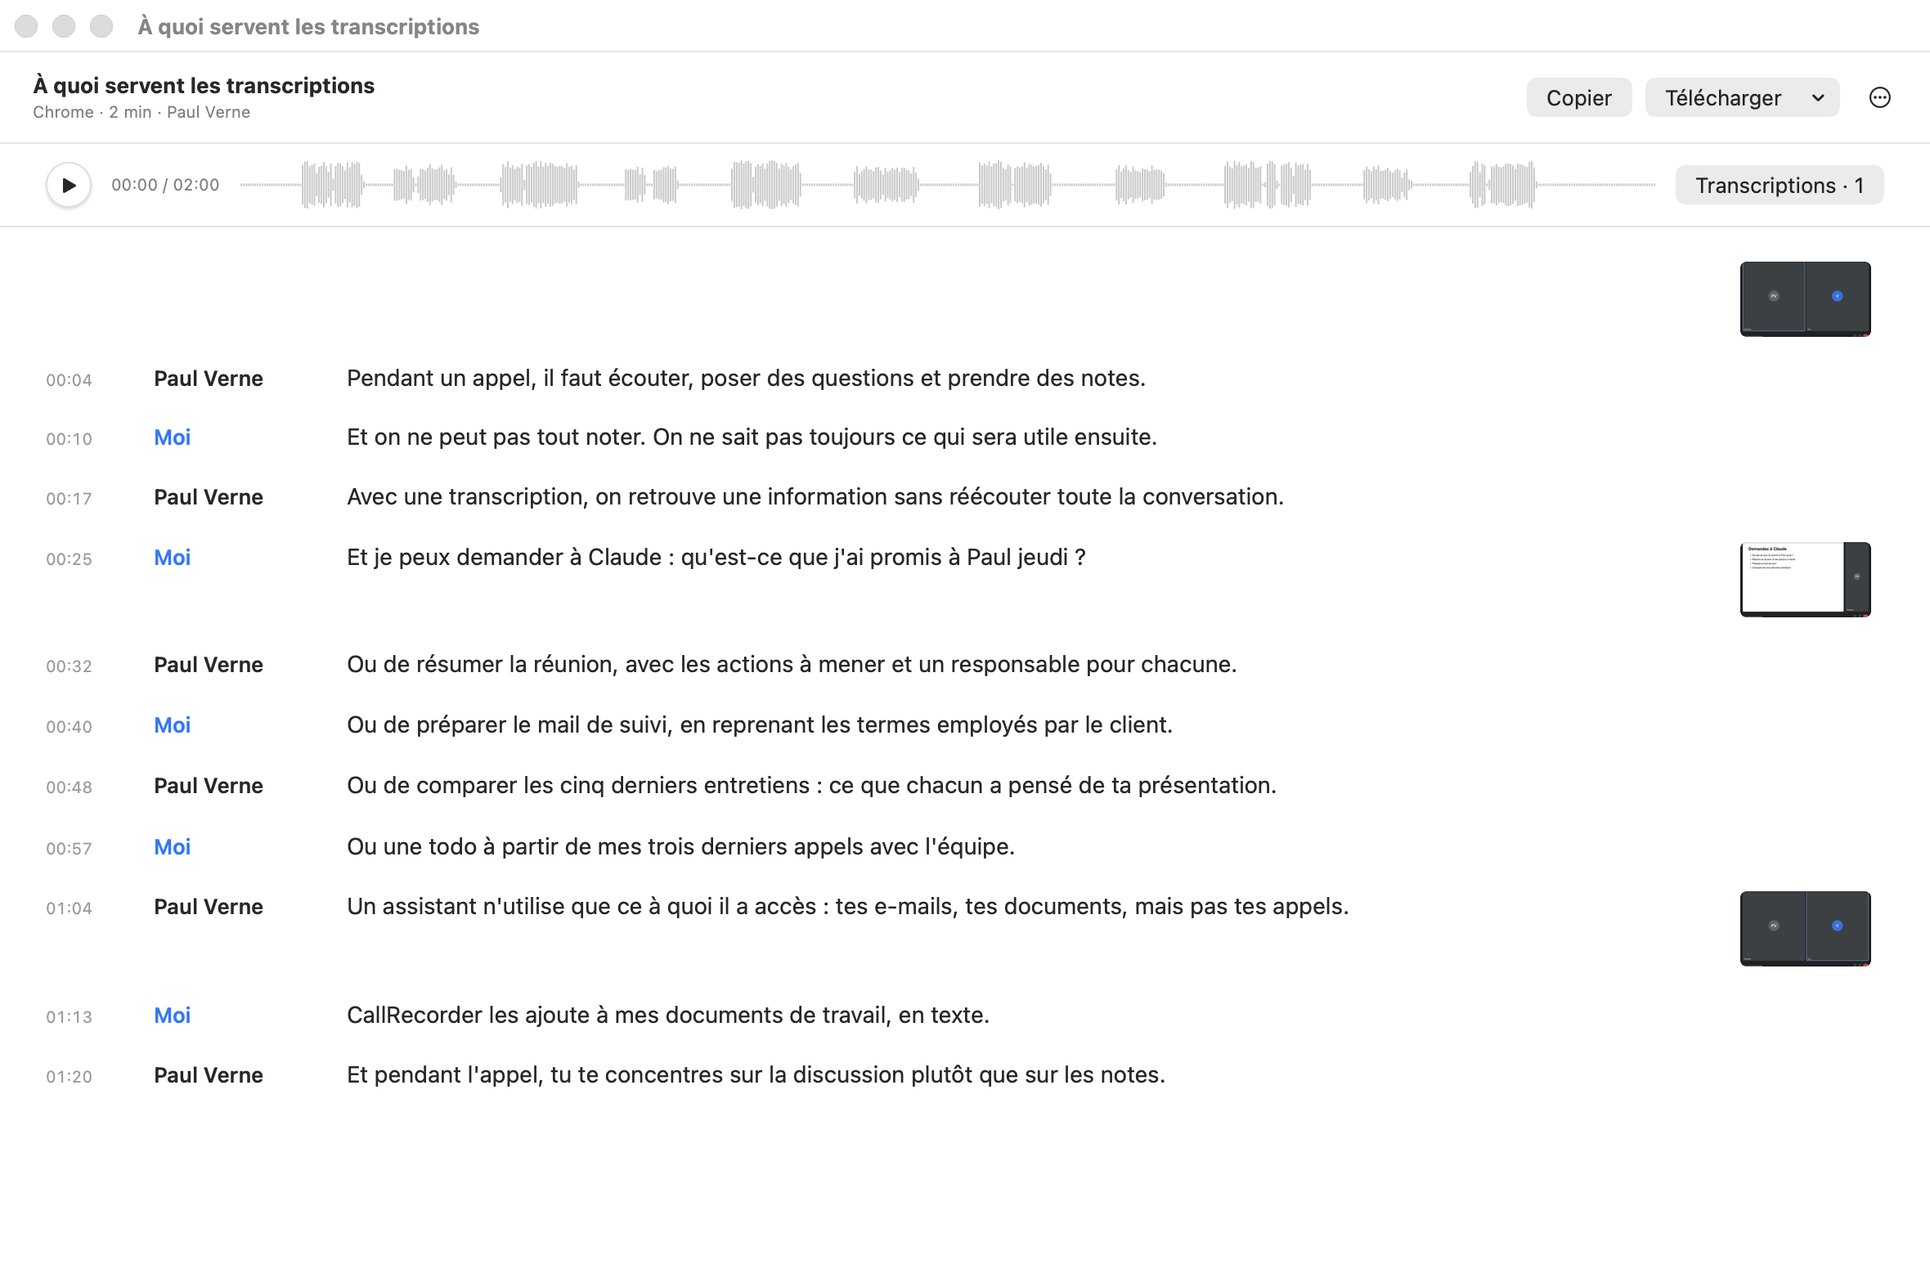
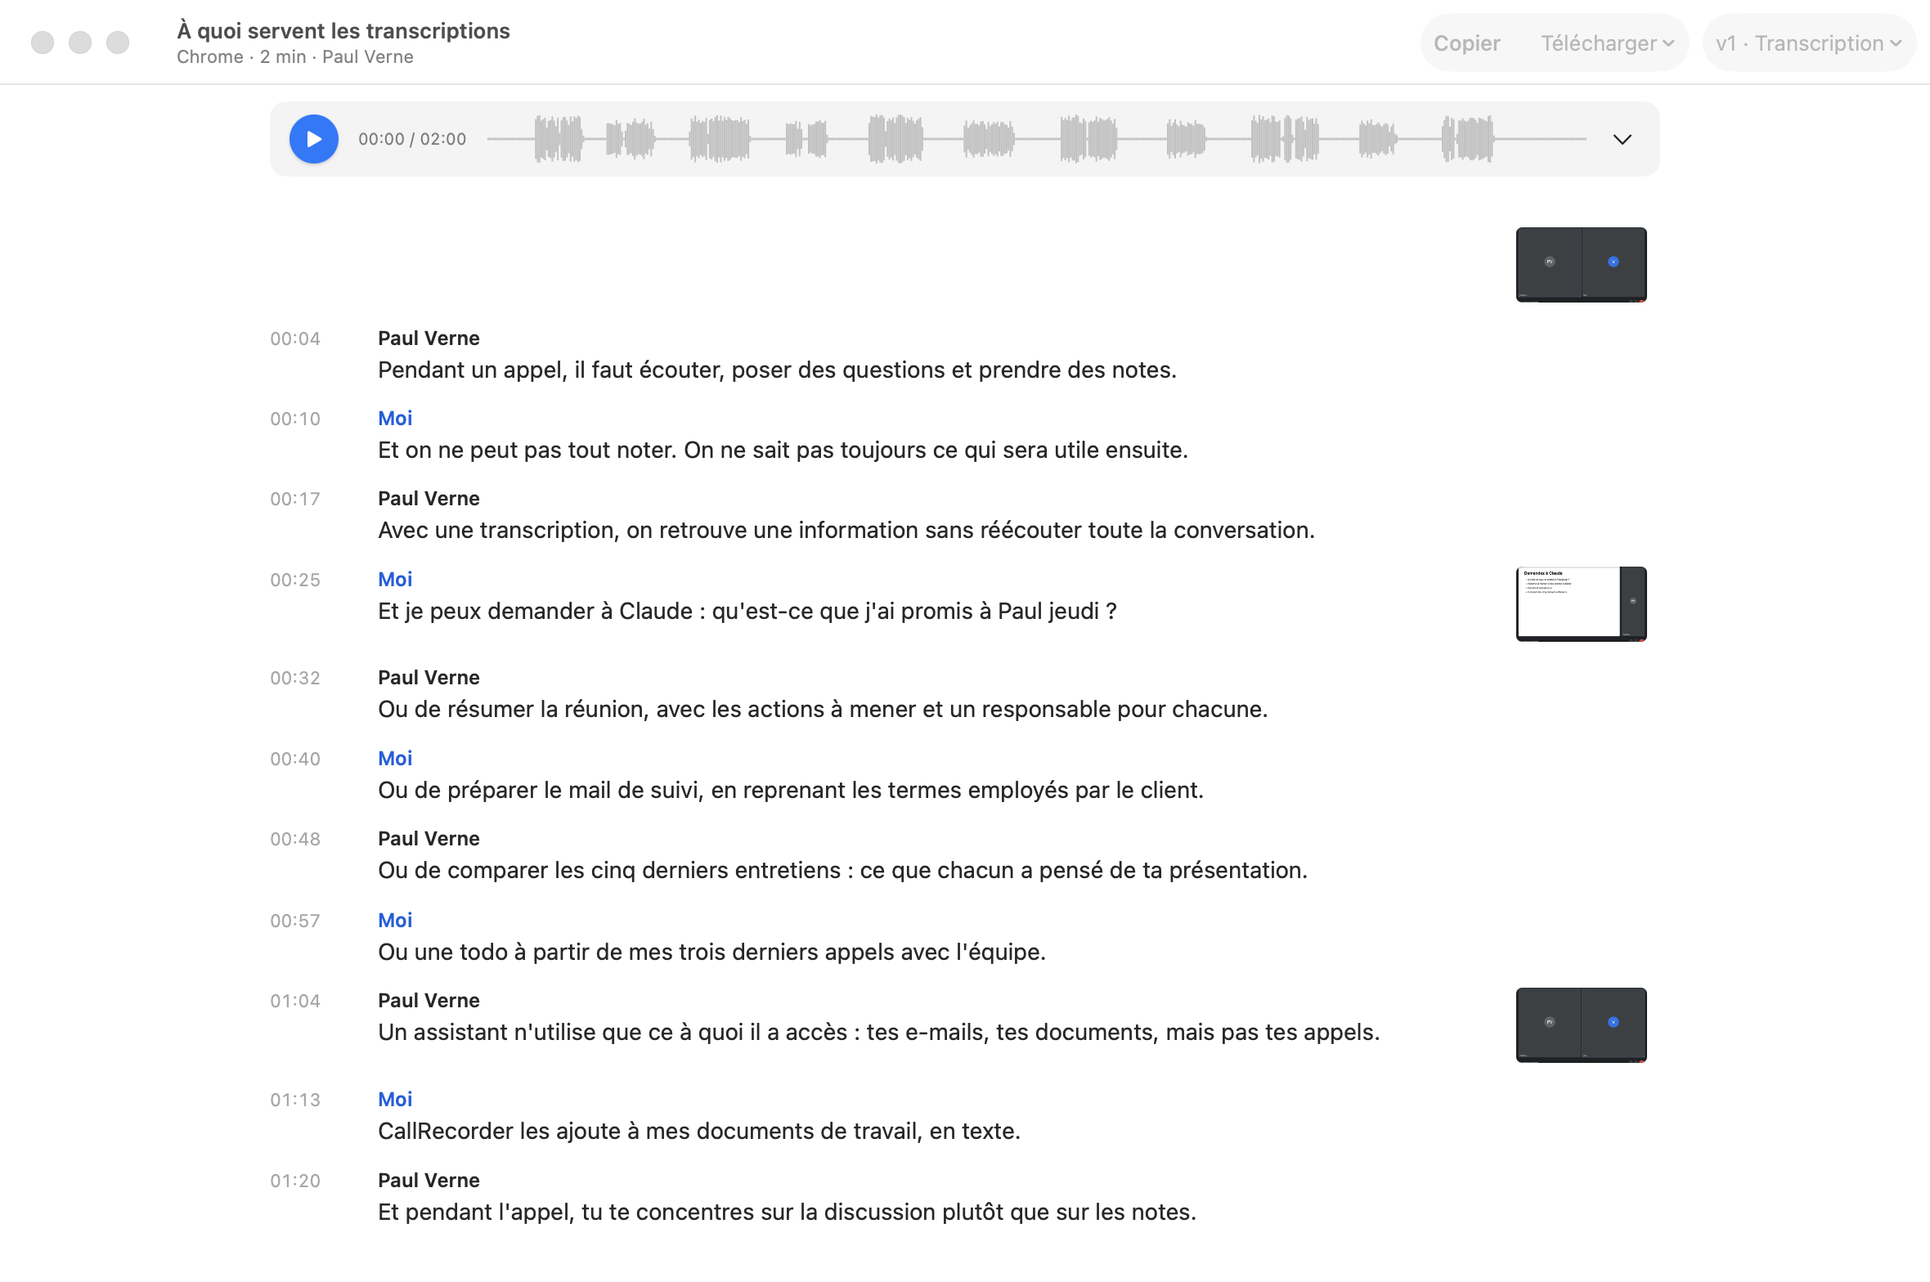
La 0.6.0 : Claude améliore chaque transcription, plus de qualité max ; captures et guides refaits

diff --git a/index.html b/index.html
@@ -81,10 +81,10 @@
   h1, h2, .about .lead, .intro p, .req, .notes { text-wrap: balance; }
   .about .req { font-size: 15px; color: var(--secondary); margin-top: 16px; }
 
-  /* Fenêtre Appels, et la fenêtre d'un appel par-dessus */
-  .stage { position: relative; max-width: 1048px; margin: 96px auto 0; padding-bottom: 150px; }
+  /* La fenêtre Appels : la liste à gauche, l'appel choisi à droite */
+  .stage { position: relative; max-width: 1048px; margin: 96px auto 0; }
   .stage > img {
-    width: 88%; height: auto; display: block;
+    width: 100%; height: auto; display: block;
     border-radius: 11px; border: .5px solid rgba(0,0,0,.25);
     box-shadow: 0 22px 50px -16px rgba(0,0,0,.28);
   }
@@ -215,8 +215,7 @@
   </div>
 
   <div class="stage">
-    <img src="img/appels.png" width="2200" height="1504" alt="La fenêtre Appels de CallRecorder : un calendrier à gauche, et une ligne par appel avec la première capture de l'écran, l'app, l'heure, le titre, les participants et la durée.">
-    <img class="detail" src="img/transcription.png" width="2360" height="1574" alt="La fenêtre d'un appel, « À quoi servent les transcriptions » : la forme d'onde de l'enregistrement, puis les répliques horodatées de Paul et de moi, avec les captures d'écran prises pendant l'appel.">
+    <img src="img/appels.png" width="2560" height="1568" alt="La fenêtre Appels de CallRecorder : à gauche, une ligne par appel avec sa première capture, l'app, l'heure, le titre et la durée ; à droite, l'appel « À quoi servent les transcriptions » avec la forme d'onde de l'enregistrement, les répliques horodatées de Paul et de moi, et les captures d'écran prises pendant l'appel.">
   </div>
 
   <div class="dock" aria-label="Applications d'appel prises en charge">
@@ -248,9 +247,9 @@
       <div class="group">
         <div class="row"><h3>Vous n'avez rien à paramétrer, rien à lancer</h3><p>Pas de bouton à cliquer au début de chaque réunion. CallRecorder détecte l'utilisation du micro par les applications prises en charge. Siri et la dictée ne déclenchent pas d'enregistrement.</p></div>
         <div class="row"><h3>Vos appels téléphoniques aussi</h3><p>Les appels de l'iPhone pris ou passés sur le Mac, dans l'app Téléphone. Et ceux d'un Pixel branché en USB, avec le numéro et le nom de l'interlocuteur. <a href="#guides">Comment faire</a></p></div>
-        <div class="row"><h3>Les transcriptions restent sur votre Mac</h3><p>La transcription est effectuée par votre Mac : par la reconnaissance vocale d'Apple sur macOS 26, et par Whisper pour la qualité max, plus juste sur les noms et le jargon. L'audio n'est pas envoyé sur Internet, et les captures d'écran qui servent à comprendre le contexte non plus, sauf si vous activez l'option <span class="nobr"><img class="logo" src="img/logos/claude.png" alt="">Claude</span>.</p></div>
+        <div class="row"><h3>Les transcriptions restent sur votre Mac</h3><p>La transcription est effectuée par votre Mac, par la reconnaissance vocale d'Apple. L'audio n'est pas envoyé sur Internet, et les captures d'écran qui servent à comprendre le contexte non plus, sauf si vous activez l'option <span class="nobr"><img class="logo" src="img/logos/claude.png" alt="">Claude</span>.</p></div>
         <div class="row"><h3>Vos propos et ceux des autres sont séparés</h3><p>CallRecorder enregistre séparément le son de votre micro et celui de votre application d'appel. La transcription distingue vos propos de ceux des autres participants.</p></div>
-        <div class="row"><h3>Retrouvez le titre et les participants</h3><p>En option, <span class="nobr"><img class="logo" src="img/logos/claude.png" alt="">Claude</span> peut utiliser le contenu de la fenêtre d'appel avec votre agenda et vos e-mails pour retrouver les informations utiles à la transcription, comme le sujet de la réunion et les participants.</p></div>
+        <div class="row"><h3>Des transcriptions améliorées par <span class="nobr"><img class="logo" src="img/logos/claude.png" alt="">Claude</span></h3><p>En option, après chaque appel, Claude relit la transcription avec ce que la fenêtre d'appel affichait, votre agenda et vos e-mails. Il corrige les noms propres et retrouve le titre de l'appel et les participants. Le résultat est une nouvelle version : la transcription d'origine reste.</p></div>
         <div class="row"><h3>Retrouvez vos appels avec <span class="nobr"><img class="logo" src="img/logos/claude.png" alt="">Claude</span></h3><p>Claude peut rechercher un appel, lire sa transcription, en faire un résumé ou préparer un compte rendu et un e-mail de suivi. Tous les assistants compatibles avec MCP peuvent accéder aux transcriptions si vous leur en donnez l'accès.</p></div>
         <div class="row"><h3>L'audio part à la corbeille au bout de 7 jours</h3><p>Sauf si vous choisissez de le conserver. Les transcriptions et les captures d'écran restent, sauf si vous supprimez l'appel.</p></div>
         <div class="row"><h3>L'application reste dans la barre des menus</h3><p>CallRecorder n'apparaît pas dans le Dock. Vous pouvez arrêter ou supprimer un enregistrement en cliquant sur l'icône.</p></div>
@@ -279,7 +278,7 @@
         </div>
       </div>
 
-      <p class="notes">Sur macOS 26, la transcription utilise la reconnaissance vocale d'Apple : rien de plus à télécharger. Sur macOS 15, et pour la qualité max, le modèle Whisper (0,6 Go) se télécharge.</p>
+      <p class="notes">Sur macOS 26, la transcription utilise la reconnaissance vocale d'Apple : rien de plus à télécharger. Sur macOS 15, un modèle de transcription (0,6 Go) se télécharge au premier lancement.</p>
     </div>
   </section>
 
@@ -310,34 +309,37 @@
         </div></details>
         <details class="row"><summary>Donner à Claude l'accès à vos appels</summary><div class="answer">
           <ol>
-            <li>Dans la configuration, ligne <b>Accès de Claude à vos appels</b>, cliquez sur Activer : Claude Code et Claude Desktop sont reliés à vos appels.</li>
+            <li>Dans les Réglages, page <b>Claude et autres assistants</b>, ligne <b>Accès de Claude à vos appels</b>, cliquez sur <b>Donner l'accès</b> : Claude Code et Claude Desktop sont reliés à vos appels.</li>
             <li>Quittez et rouvrez Claude.</li>
             <li>Demandez-lui par exemple : « Qu'est-ce que j'ai promis à Paul jeudi ? »</li>
           </ol>
-          <p>Pour ChatGPT, Cursor ou un autre assistant compatible MCP, l'assistant de configuration donne la consigne et la configuration MCP à copier dans ses réglages.</p>
-          <img src="img/guides/claude.png" loading="lazy" alt="L'écran Votre assistant IA de l'assistant de configuration : Claude actif, et la configuration MCP à copier pour un autre assistant.">
+          <p>Pour ChatGPT, Cursor ou un autre assistant compatible MCP, la même page donne la consigne et la configuration MCP à copier dans ses réglages.</p>
+          <img src="img/guides/claude.png" loading="lazy" alt="La page Claude des Réglages : améliorer chaque transcription, le modèle de Claude et l'accès de Claude à vos appels.">
         </div></details>
         <details class="row"><summary>Retrouver et réécouter un appel</summary><div class="answer">
-          <p>Cliquez sur l'icône de CallRecorder dans la barre des menus, puis sur <b>Appels…</b>. Le calendrier, à gauche, mène à un jour. Cliquez sur un appel pour ouvrir sa fenêtre : la lecture est en haut, et un clic sur la forme d'onde ou sur une réplique va au bon moment.</p>
-          <img src="img/guides/appels.png" loading="lazy" alt="La fenêtre Appels : le calendrier à gauche, et une ligne par appel avec sa première capture, son titre et sa durée.">
+          <p>Cliquez sur l'icône de CallRecorder dans la barre des menus, puis sur <b>Appels…</b> À gauche, la liste des appels ; l'icône du calendrier, en haut, mène à un jour. Cliquez sur un appel : il s'affiche à droite, avec la lecture en haut. <b>Espace</b> lit ou met en pause, et un clic sur la forme d'onde ou sur une réplique va au bon moment. Un double-clic ouvre l'appel dans sa propre fenêtre.</p>
+          <img src="img/guides/appels.png" loading="lazy" alt="La fenêtre Appels : une ligne par appel à gauche, avec sa première capture, son titre et sa durée, et l'appel choisi à droite.">
         </div></details>
-        <details class="row"><summary>Transcrire en qualité max</summary><div class="answer">
-          <p>La qualité max est plus juste sur les noms propres et le jargon, mais plus lente. Dans la fenêtre de l'appel, cliquez sur <b>Transcriptions</b>, au bout de l'enregistrement, puis sur <b>Nouvelle transcription…</b> et choisissez la qualité max. Vérifiez les noms et les mots à reconnaître, ou cliquez sur <b>Faire remplir par Claude</b>, puis sur <b>Lancer</b>. Son modèle (0,6 Go) se télécharge la première fois ; les transcriptions précédentes restent dans la liste.</p>
-          <img src="img/guides/fenetre-appel.png" loading="lazy" alt="Le haut de la fenêtre d'un appel : Copier et Télécharger, puis l'enregistrement avec le bouton Transcriptions au bout.">
+        <details class="row"><summary>Retranscrire, ou améliorer avec Claude</summary><div class="answer">
+          <p>Ouvrez le menu des transcriptions de l'appel, en haut à droite (<b>v1 · Transcription</b>). <b>Nouvelle transcription</b> fait réécouter l'appel. <b>Améliorer avec Claude</b> fait relire la dernière transcription par Claude, avec l'écran de l'appel, votre agenda et vos e-mails. Chaque passage est une nouvelle version, et les précédentes restent dans ce menu.</p>
+          <img src="img/guides/fenetre-appel.png" loading="lazy" alt="Le haut d'un appel : son titre, Copier, Télécharger et le menu des transcriptions, puis l'enregistrement.">
         </div></details>
         <details class="row"><summary>Copier ou exporter une transcription</summary><div class="answer">
-          <p>Dans la fenêtre de l'appel, <b>Copier</b> met toute la transcription dans le presse-papiers. <b>Télécharger</b> l'enregistre en texte, Word, Markdown ou sous-titres. Les transcriptions sont aussi dans le dossier CallRecordings de votre dossier personnel, en Markdown.</p>
+          <p>Dans la fenêtre de l'appel, <b>Copier</b> (⇧⌘C) met toute la transcription dans le presse-papiers. <b>Télécharger</b> l'enregistre en texte, Word, Markdown ou sous-titres. Les transcriptions sont aussi dans le dossier CallRecordings de votre dossier personnel, en Markdown.</p>
           <img src="img/guides/fenetre-appel.png" loading="lazy" alt="Le haut de la fenêtre d'un appel, avec Copier et Télécharger.">
         </div></details>
         <details class="row"><summary>Garder l'enregistrement audio d'un appel</summary><div class="answer">
-          <p>L'audio part à la corbeille au bout de 7 jours ; la transcription et les captures restent. Le menu <b>⋯</b> de la fenêtre de l'appel indique la date. Pour garder l'audio, demandez-le à Claude (« Garde l'enregistrement de cet appel ») ou tapez <code>calls keep</code> suivi de l'identifiant de l'appel dans le Terminal.</p>
+          <p>L'audio part à la corbeille au bout de 7 jours, une durée que vous pouvez changer dans les Réglages ; la transcription et les captures restent. Le menu <b>⋯</b> de la fenêtre de l'appel indique la date. Pour garder l'audio, demandez-le à Claude (« Garde l'enregistrement de cet appel ») ou tapez <code>calls keep</code> suivi de l'identifiant de l'appel dans le Terminal.</p>
         </div></details>
         <details class="row"><summary>Arrêter ou supprimer un enregistrement</summary><div class="answer">
-          <p>Pendant l'appel, cliquez sur l'icône de CallRecorder dans la barre des menus : <b>Arrêter</b> termine l'enregistrement, <b>Supprimer cet appel</b> l'efface. Après l'appel, survolez-le dans la fenêtre Appels et cliquez sur la corbeille : vous avez 5 secondes pour annuler. Le menu <b>⋯</b> de sa fenêtre permet aussi de le supprimer.</p>
+          <p>Pendant l'appel, cliquez sur l'icône de CallRecorder dans la barre des menus : <b>Arrêter</b> termine l'enregistrement, <b>Supprimer cet appel</b> l'efface. Après l'appel, choisissez-le dans la fenêtre Appels et appuyez sur <b>⌘⌫</b>, ou faites un clic droit &gt; <b>Supprimer l'appel</b> : il part à la corbeille du Mac. Édition &gt; <b>Annuler</b> (⌘Z) le remet.</p>
         </div></details>
-        <details class="row"><summary>Revoir les autorisations</summary><div class="answer">
-          <p>Icône de CallRecorder &gt; <b>Configuration…</b> Chaque autorisation s'y active ou se retire. Quand Réglages Système s'ouvre, un petit panneau s'y colle pour indiquer quoi faire.</p>
-          <img src="img/guides/configuration.png" loading="lazy" alt="La configuration : le micro, le son des apps, l'écran et la transcription automatique, chacun avec son bouton.">
+        <details class="row"><summary>Choisir les apps et les sites enregistrés</summary><div class="answer">
+          <p>Dans les <b>Réglages</b>, en bas à gauche de la fenêtre Appels, ouvrez <b>Apps enregistrées</b>, tout en bas : chaque app a son interrupteur. Dans un navigateur, chaque site se coupe à part : Google Meet, Zoom, Teams, WhatsApp Web, Slack… Il est reconnu au titre de la fenêtre ; <b>Autres sites</b> couvre les appels qu'on ne reconnaît pas.</p>
+        </div></details>
+        <details class="row"><summary>Revoir les autorisations et les réglages</summary><div class="answer">
+          <p>En bas à gauche de la fenêtre Appels, cliquez sur <b>Réglages</b> (ou ⌘,) : ils prennent la place des appels. Chaque autorisation s'y active ou se retire, comme la durée de conservation de l'audio et l'icône de la barre des menus. Quand Réglages Système s'ouvre, un petit panneau s'y colle pour indiquer quoi faire.</p>
+          <img src="img/guides/configuration.png" loading="lazy" alt="Les Réglages, dans la fenêtre Appels : le micro, le son des apps, l'écran et la transcription automatique, chacun avec son bouton.">
         </div></details>
       </div>
     </div>
@@ -350,7 +352,8 @@
         <p>CallRecorder se met à jour tout seul. Pour vérifier tout de suite : icône de CallRecorder &gt; Rechercher une mise à jour.</p>
       </div>
       <div class="group" style="margin-top:56px">
-        <div class="row version"><div class="num">0.5.5<span class="latest">Dernière</span><small>26 octobre 2026</small></div><div><p>Une ligne par appel, avec sa première capture, l'app et la durée. Fenêtre de l'appel : la transcription calée sur l'enregistrement, les captures à côté des répliques, les silences visibles, un texte plus lisible. Plusieurs transcriptions par appel ; une nouvelle se prépare au centre de la fenêtre, avec les mots à reconnaître et Faire remplir par Claude, et on la regarde se faire. Nombreuses corrections.</p><a class="thumb" href="img/transcription.png"><img src="img/transcription.png" loading="lazy" alt="La fenêtre d'un appel"></a></div></div>
+        <div class="row version"><div class="num">0.6.0<span class="latest">Dernière</span><small>27 octobre 2026</small></div><div><p>Une seule fenêtre : vos appels à gauche, en liste ou en calendrier, et l'appel choisi à droite, qui s'ouvre aussitôt. Les transcriptions d'un appel dans un menu. Choisissez les apps et les sites dont les appels sont enregistrés. Des menus et des raccourcis comme dans toute app Mac : Espace pour lire, ⌘Z pour remettre un appel supprimé, les Réglages en bas à gauche de la fenêtre (⌘,). S'il manque le micro ou le son des apps, les Réglages s'ouvrent et montrent quoi autoriser. Après chaque appel, Claude peut améliorer la transcription : noms propres corrigés, titre et participants, dans une nouvelle version. Plus de qualité max : la transcription d'Apple, relue par Claude, fait aussi bien que Whisper. Plus lisible avec VoiceOver, Réduire les animations et Augmenter le contraste.</p><a class="thumb" href="img/appels.png"><img src="img/appels.png" loading="lazy" alt="La fenêtre Appels, avec l'appel choisi à droite"></a></div></div>
+        <div class="row version"><div class="num">0.5.5<small>26 octobre 2026</small></div><div><p>Une ligne par appel, avec sa première capture, l'app et la durée. Fenêtre de l'appel : la transcription calée sur l'enregistrement, les captures à côté des répliques, les silences visibles, un texte plus lisible. Plusieurs transcriptions par appel ; une nouvelle se prépare au centre de la fenêtre, avec les mots à reconnaître et Faire remplir par Claude, et on la regarde se faire. Nombreuses corrections.</p><a class="thumb" href="img/transcription.png"><img src="img/transcription.png" loading="lazy" alt="La fenêtre d'un appel"></a></div></div>
         <div class="row version"><div class="num">0.5.4<small>26 octobre 2026</small></div><div><p>Cartes des appels : toute la carte ouvre la fenêtre de l'appel, avec un extrait de quelques répliques. Fenêtre de l'appel : les captures dans une colonne à droite, les répliques espacées selon le temps écoulé.</p></div></div>
         <div class="row version"><div class="num">0.5.3<small>26 octobre 2026</small></div><div><p>Les appels Android s'enregistrent sans rien installer : l'outil scrcpy est livré dans l'app.</p></div></div>
         <div class="row version"><div class="num">0.5.2<small>26 octobre 2026</small></div><div><p>Appels Android : le numéro et le nom de l'interlocuteur, retrouvés même quand le téléphone est rebranché après l'appel.</p></div></div>
@@ -370,7 +373,7 @@
     <div class="col">
       <h3>Données et confidentialité</h3>
       <p>L'audio est enregistré et transcrit sur votre Mac. Il n'est pas envoyé sur Internet.</p>
-      <p>Si vous activez l'option Claude pour identifier les appels, les captures de la fenêtre d'appel et le texte lu à l'écran sont transmis à Claude. Cette option est distincte de la transcription locale.</p>
+      <p>Si vous activez l'amélioration par Claude, la transcription, les captures de la fenêtre d'appel et le texte lu à l'écran sont transmis à Claude. Cette option est distincte de la transcription, qui reste faite sur votre Mac.</p>
       <p>Pendant l'installation, CallRecorder envoie son journal de fonctionnement à Gildas Frémont pour l'aider à corriger les problèmes : votre nom et vos dossiers y sont masqués, l'audio et les transcriptions n'en font jamais partie. Vous pouvez décocher cet envoi dans la configuration. Il s'arrête de lui-même après votre premier appel transcrit.</p>
       <p>Pensez à informer vos interlocuteurs de l'enregistrement et à respecter la législation applicable.</p>
       <p class="signature">CallRecorder est conçu et développé par Gildas Frémont · <a href="https://gildas.fyi">gildas.fyi</a> · <a href="https://linkedin.com/in/gildasfremont">LinkedIn</a></p>
